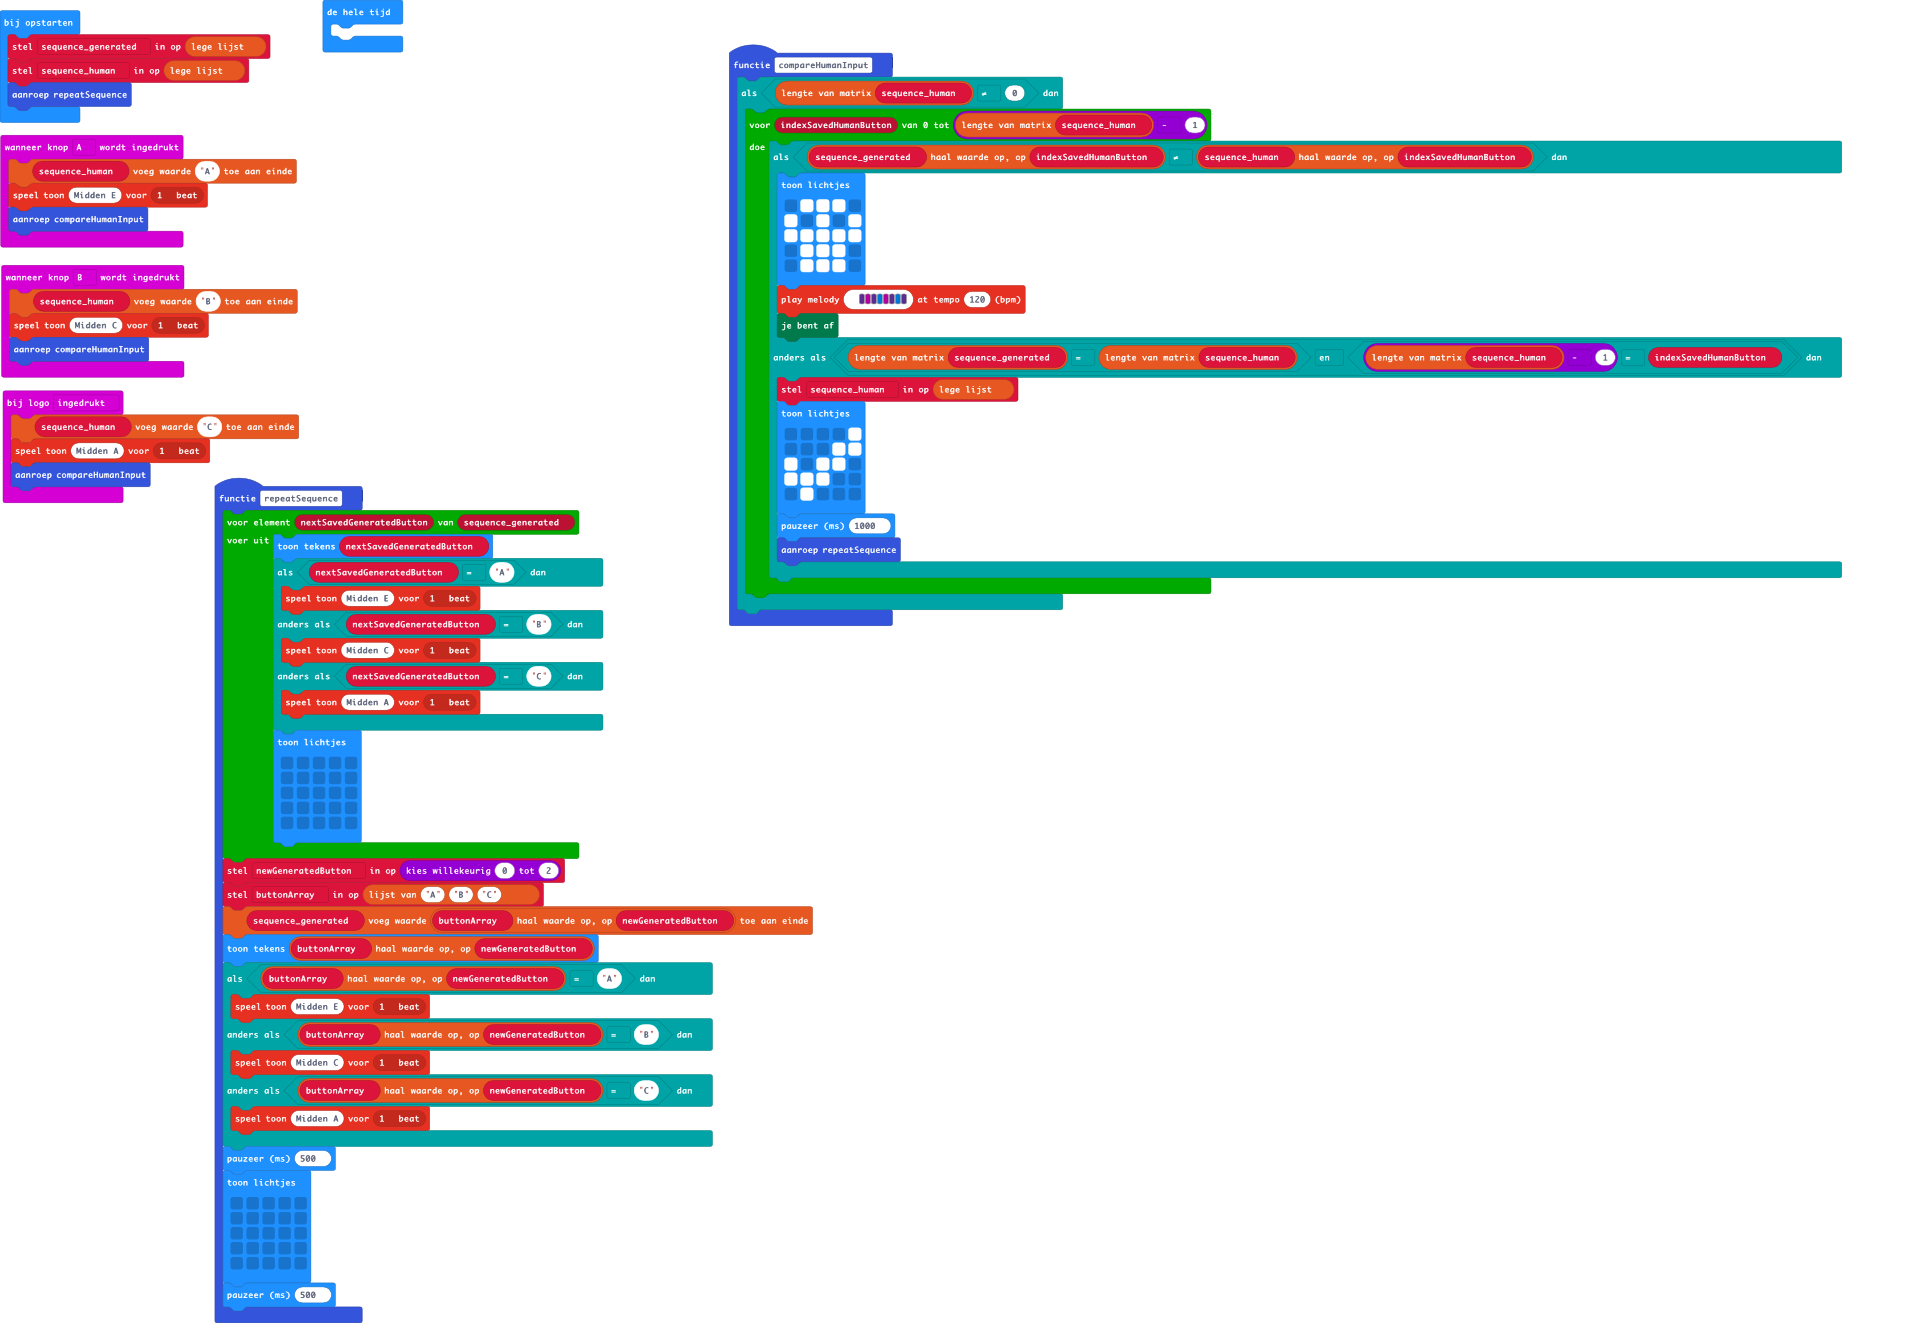
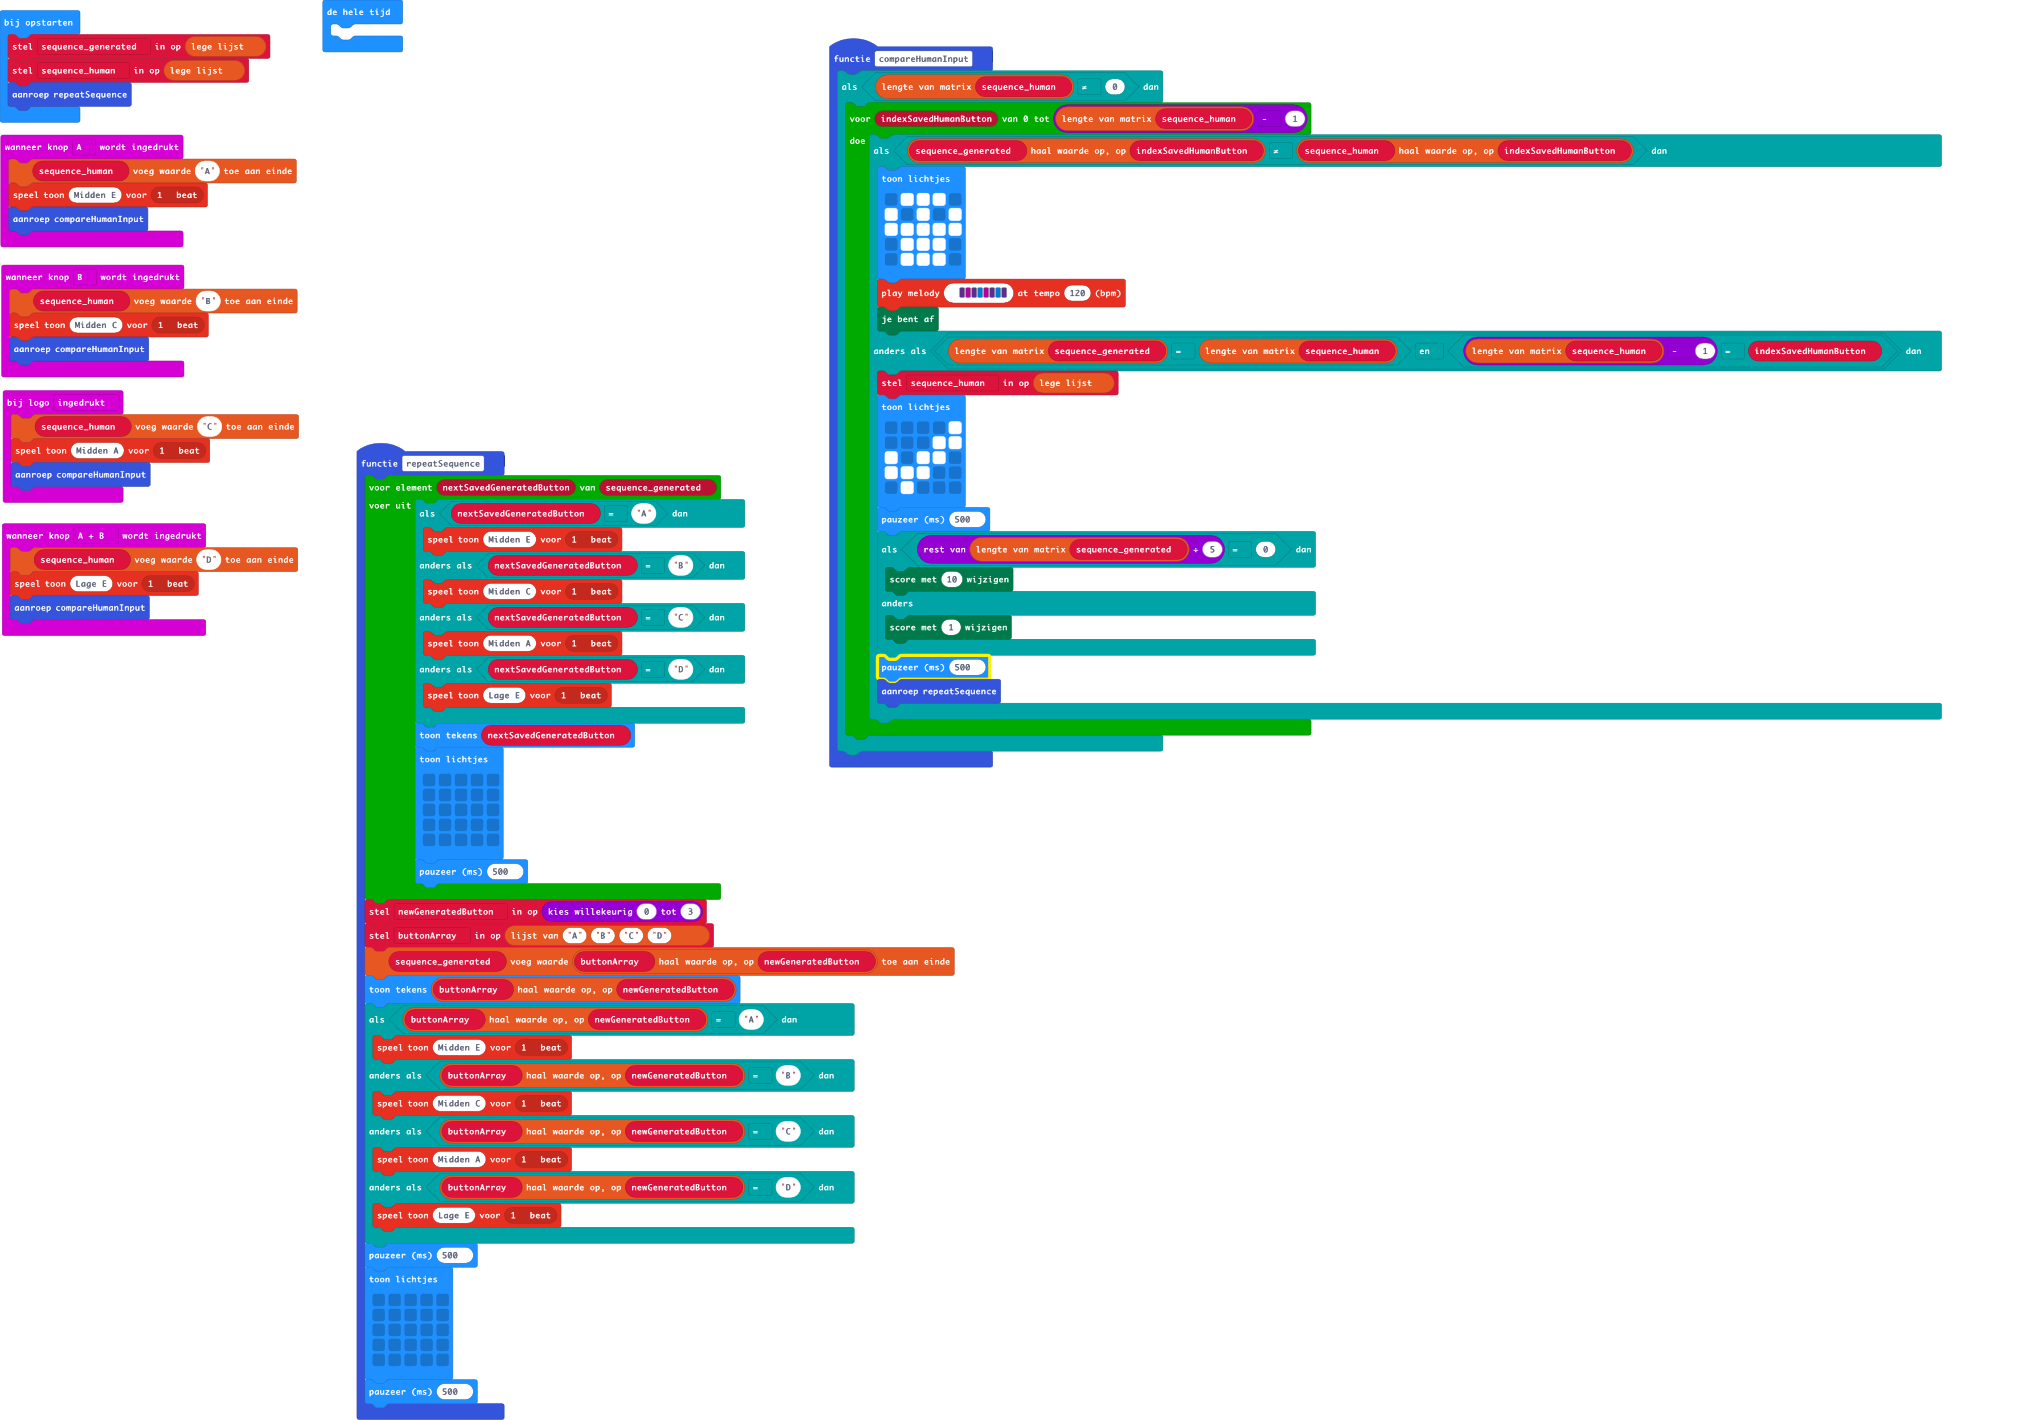
main.blocks, main.ts bijwerken

Changed region(s): [[0.0, 0.0, 0.9688, 1.0]]

diff --git a/main.ts b/main.ts
@@ -5,14 +5,16 @@ input.onButtonPressed(Button.A, function () {
 })
 function repeatSequence () {
     for (let nextSavedGeneratedButton of sequence_generated) {
-        basic.showString("" + (nextSavedGeneratedButton))
         if (nextSavedGeneratedButton == "A") {
             music.playTone(330, music.beat(BeatFraction.Whole))
         } else if (nextSavedGeneratedButton == "B") {
             music.playTone(262, music.beat(BeatFraction.Whole))
         } else if (nextSavedGeneratedButton == "C") {
             music.playTone(440, music.beat(BeatFraction.Whole))
+        } else if (nextSavedGeneratedButton == "D") {
+            music.playTone(165, music.beat(BeatFraction.Whole))
         }
+        basic.showString("" + (nextSavedGeneratedButton))
         basic.showLeds(`
             . . . . .
             . . . . .
@@ -20,9 +22,10 @@ function repeatSequence () {
             . . . . .
             . . . . .
             `)
+        basic.pause(500)
     }
-    newGeneratedButton = randint(0, 2)
-    buttonArray = ["A", "B", "C"]
+    newGeneratedButton = randint(0, 3)
+    buttonArray = ["A", "B", "C", "D"]
     sequence_generated.push(buttonArray[newGeneratedButton])
     basic.showString("" + (buttonArray[newGeneratedButton]))
     if (buttonArray[newGeneratedButton] == "A") {
@@ -31,6 +34,8 @@ function repeatSequence () {
         music.playTone(262, music.beat(BeatFraction.Whole))
     } else if (buttonArray[newGeneratedButton] == "C") {
         music.playTone(440, music.beat(BeatFraction.Whole))
+    } else if (buttonArray[newGeneratedButton] == "D") {
+        music.playTone(165, music.beat(BeatFraction.Whole))
     }
     basic.pause(500)
     basic.showLeds(`
@@ -45,6 +50,11 @@ function repeatSequence () {
 input.onLogoEvent(TouchButtonEvent.Pressed, function () {
     sequence_human.push("C")
     music.playTone(440, music.beat(BeatFraction.Whole))
+    compareHumanInput()
+})
+input.onButtonPressed(Button.AB, function () {
+    sequence_human.push("D")
+    music.playTone(165, music.beat(BeatFraction.Whole))
     compareHumanInput()
 })
 function compareHumanInput () {
@@ -69,7 +79,13 @@ function compareHumanInput () {
                     # # # . .
                     . # . . .
                     `)
-                basic.pause(1000)
+                basic.pause(500)
+                if (sequence_generated.length % 5 == 0) {
+                    game.addScore(10)
+                } else {
+                    game.addScore(1)
+                }
+                basic.pause(500)
                 repeatSequence()
             }
         }
